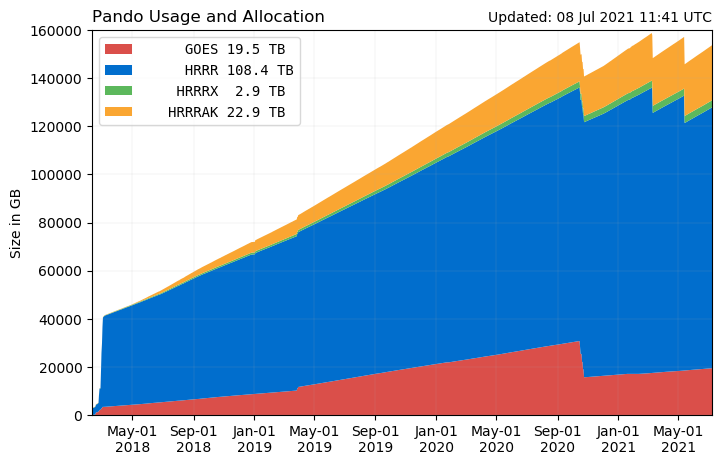
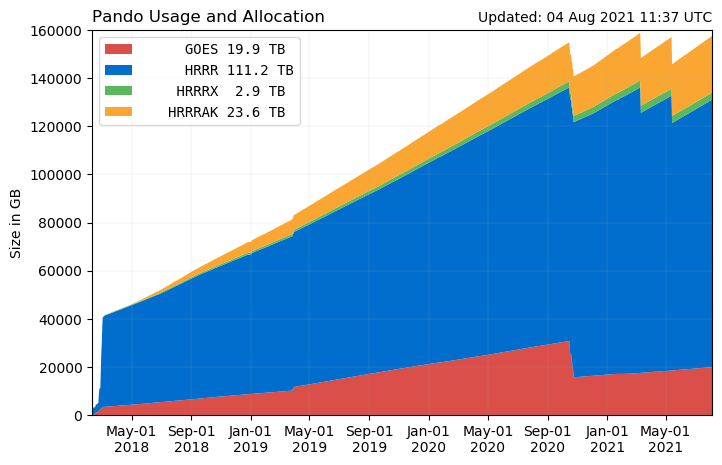
updates

diff --git a/Pando_archive/index.html b/Pando_archive/index.html
@@ -46,18 +46,18 @@
 
 <br>
   <script src='./js/pando_status.js'></script>
-    <center><font size=12> 153.7 TB out of 160 TB</font>
+    <center><font size=12> 157.6 TB out of 160 TB</font>
     <div class="progress" style="max-width:700px;height:35px">
             <div class="progress-bar progress-bar-danger" role="progressbar" style="width:12%">
               <font size=4></font>
             </div>
-            <div class="progress-bar progress-bar-primary" role="progressbar" style="width:68%">
+            <div class="progress-bar progress-bar-primary" role="progressbar" style="width:69%">
               <font size=4></font>
             </div>
             <div class="progress-bar progress-bar-success" role="progressbar" style="width:2%">
               <font size=4></font>
             </div>
-            <div class="progress-bar progress-bar-warning" role="progressbar" style="width:14%">
+            <div class="progress-bar progress-bar-warning" role="progressbar" style="width:15%">
               <font size=4></font>
             </div>
             <div class="progress-bar progress-bar-danger" role="progressbar" style="background-color:#cc66ff;width:0%">
@@ -76,8 +76,8 @@
         <th style='text-align:center'>Estimated Full Date</th>
       </tr>
       <tr>
-        <td>145.29 GB</td>
-        <td>43</td>
+        <td>146.41 GB</td>
+        <td>16</td>
         <td>20 August 2021</td>
       </tr>
     </table>
@@ -89,18 +89,18 @@
       </tr>
       <tr>
         <th style='text-align:right'>sfc</th>
-        <td>93.11</td>
-        <td>25.85</td>
+        <td>93.35</td>
+        <td>25.88</td>
       </tr>
       <tr>
         <th style='text-align:right'>prs</th>
-        <td>9.77</td>
+        <td>9.75</td>
         <td>0.00</td>
       </tr>
       <tr>
         <th style='text-align:right'>Total</th>
-        <th style='text-align:center'>102.88 GB</th>
-        <th style='text-align:center'>25.85 GB</th>
+        <th style='text-align:center'>103.11 GB</th>
+        <th style='text-align:center'>25.88 GB</th>
       </tr>
     </table>
     <table class="table table-bordered" style='text-align:center;max-width:700px'>
@@ -110,15 +110,15 @@
       </tr>
       <tr>
         <th style='text-align:right'>ABI-L2-MCMIPC</th>
-        <td>15.71</td>
+        <td>16.31</td>
       </tr>
       <tr>
         <th style='text-align:right'>GLM-L2-LCFA</th>
-        <td>0.86</td>
+        <td>1.12</td>
       </tr>
       <tr>
         <th style='text-align:right'>Total</th>
-        <th style='text-align:center'>16.57 GB</th>
+        <th style='text-align:center'>17.43 GB</th>
       </tr>
     </table>
 
@@ -129,7 +129,7 @@
     <a href="https://github.com/blaylockbk/Web-Homepage/blob/master/Pando_archive/index.html"><i class="fab fa-github"></i> Page</a>
     <a href="https://github.com/blaylockbk/Web-Homepage/blob/master/Pando_archive/daily_usage.py"><i class="fab fa-github"></i> Plot</a>
     <br>
-    Last Updated: 08 Jul 2021 11:41 UTC
+    Last Updated: 04 Aug 2021 11:37 UTC
   </div>
 
 </div>

diff --git a/hrrr_FAQ.html b/hrrr_FAQ.html
@@ -365,6 +365,15 @@
             <div id="tab4" class="tab-pane fade">
 
                 <h3><i class="fa fa-paint-brush"></i> Gallery</h3>
+                
+                <h3>Herbie</h3>
+                <p><a href='https://github.com/blaylockbk/Herbie'>Herbie</a> is a python package to download GRIB2 model data from NOAA Big Data Program partners, like downloading HRRR data from AWS, GCP, or Pando.
+                
+                <p style='text-align:center'>
+                <a href="https://github.com/blaylockbk/Herbie">
+                    <img src="https://raw.githubusercontent.com/blaylockbk/Herbie/master/docs/_static/HerbieLogo2_tan_transparent.png" width=50%>
+                </a>
+
                 <h3>Online Tools</h3>
                 <center>
                     <div class="row" id="content">
